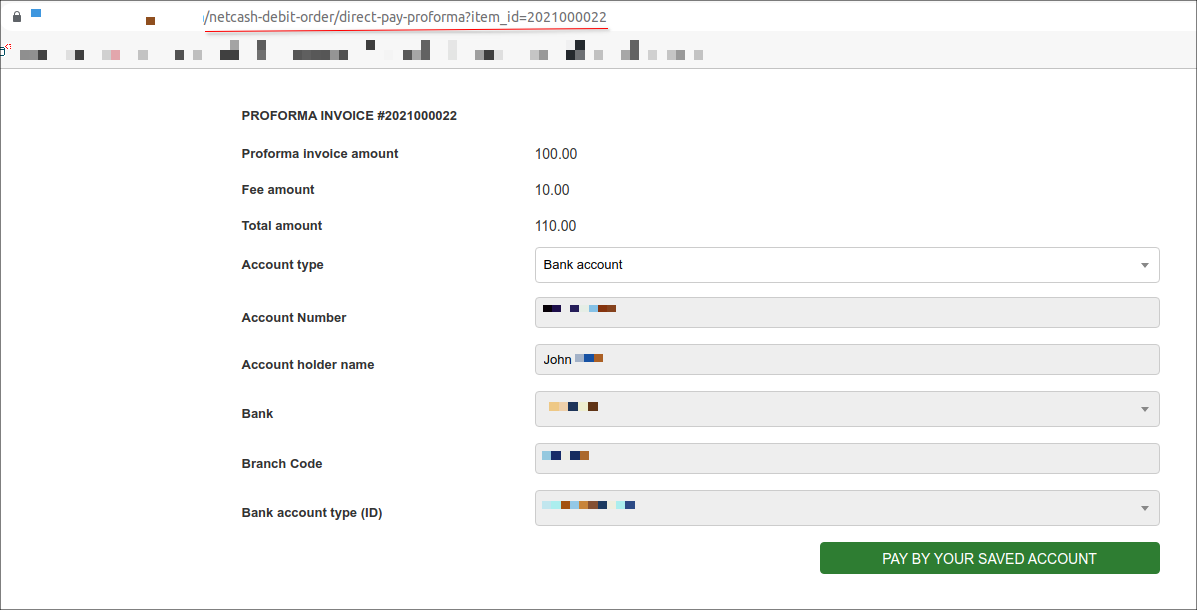
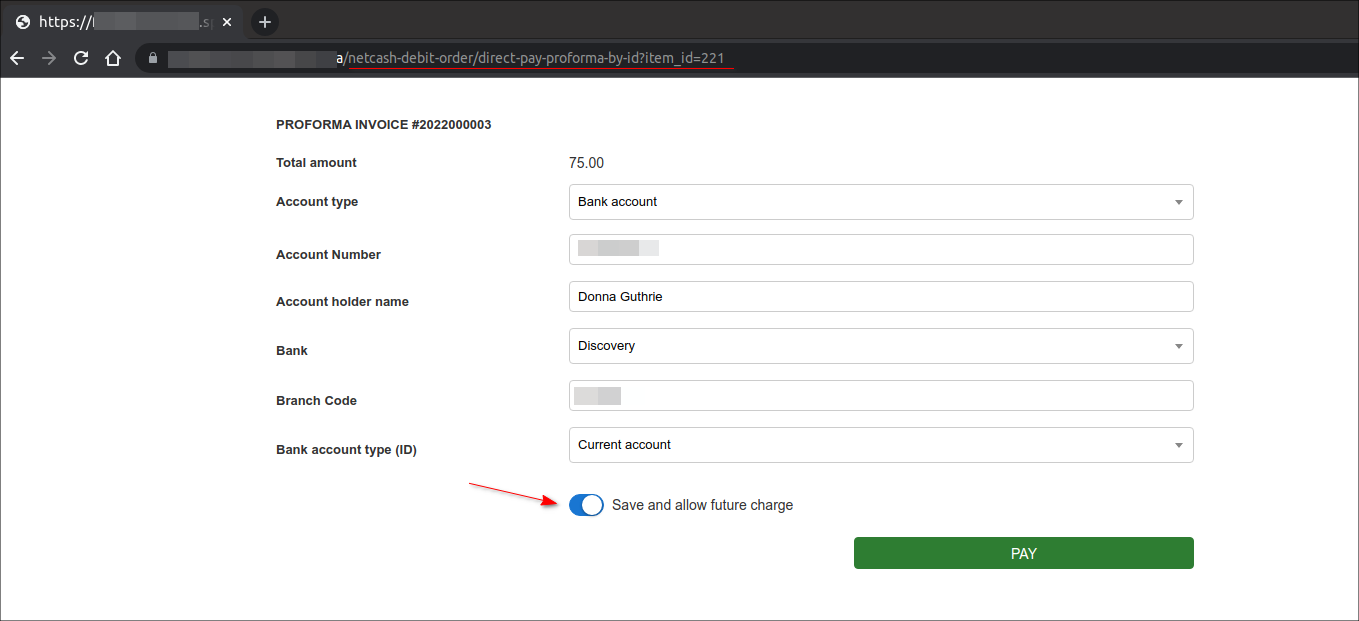
added clarifications about 'Save and allow future charge' option and 'customer id' in charge log

diff --git a/files/en/payment_systems/netcash_do/netcash_do.md b/files/en/payment_systems/netcash_do/netcash_do.md
@@ -123,31 +123,26 @@ When customers have Netcash payment accounts configured, the admin can charge th
 | 2  | Netcash can take up to two days after the action date to receive the payments as well as non-payments (bounced payments)  |
 | 3 | Splynx will check Netcash twice a day for any payments and allocate them to the correct invoice in which case the invoice will become “paid”. In the case we receive non-payments, the invoice status will return to unpaid  |
 
-This is the concept that will allow us to run debit orders.
+To perform the charge of `Unpaid` invoices, navigate to `Finance / Invoices` on the sidebar:
 
-Navigate to `Finance / Invoices`:
+**NOTE: The ability to charge balances have been removed from the features of the addon, however, it will be re-introduced in the next version of Splynx.**
+
 
 ![charge1.png](invoices_charge.png)
 
-Invoices can be charged by full invoice amount or by customer balance:
+Invoices can be charged by **full invoice amount** or by **customer balance**:
 
 ![charge1.png](charge.png)
 
 ![charge balances.png](charge_balances.png)
 
-If you charge the invoices using the “Netcash_balance” charge handler, the customer will be charged not according to an invoice amount, but with the amount outstanding on the customer’s account. <br>
-**For example:** *a customer has an invoice with an amount of 10, in the current month, but the balance of the account is -100 (meaning the customer didn't pay for 10 months) in this case, the customer will be charged with the amount of 100 and not 10.*
+If you charge the invoices using the `netcash_balances` charge handler, the **customer will be charged not according to an invoice amount, but with the amount outstanding on the customer’s account**.
 
+**Example:** *A customer has an invoice with an amount of 10, in the current month, but the balance of the account is -100 (meaning the customer didn't pay for 10 months) in this case, the customer will be charged with the amount of 100 and not 10.* That's why, **please be very attentive when using the `netcash_balances` charge handler**.
 
-**Please be very attentive when using the “Netcash_balances” charge handler**.
+Once charged, Splynx will create and send the debit batch file with the payment details to  [*https://netcash.co.za/*](https://netcash.co.za/). When the file is received in *Netcash*, you should select the correct batch type, either `two days` or `same day` as well as the action date. The last step is to click on authorize and complete the procedure, after which *Netcash* will process the file on the selected action date.
 
-**Note that the ability to charge balances have been removed from the features of the addon, however, it will be re-introduced in version 3.2 of Splynx**
-
-
-Once charged, Splynx will create and send the debit batch file with the payment details to  [*https://netcash.co.za/*](https://netcash.co.za/). When the file is received in Netcash, you should select the correct batch type, either “two days” or “same day” as well as the action date. The last step is to click on authorize and complete the procedure, after which Netcash will process the file on the selected action date.
-
-
-Splynx will send two requests per day (00:15 and 12:15) to Netcash via a cron job to retrieve the payments from Netcash. This will auto allocate the payments and update the invoice statuses to “paid”. You can also manually run the check payments for any historic date by using the **“*Netcash debit order check payments*”** in the finance module:
+Splynx will send two requests per day (00:15 and 12:15) to *Netcash* via a cron job to retrieve the payments from *Netcash*. This will auto allocate the payments and update the invoice statuses to `Paid`. You can also manually run the check payments for any historic date by using the **“*Netcash debit order check payments*”** in the finance module:
 
 ![check payments](check_payments.png)
 
@@ -157,7 +152,41 @@ The charge history can be viewed under the **"Charge history"** tab:
 
 File records with charged invoices can be downloaded or deleted in this section.
 
-The process of invoice charging can be automated. To achieve this, an admin should add an **"Auto charge filter"**:
+**NOTE:** If a customer doesn't have the saved payment credentials for Netcash service in Splynx, the customer id will be recorded in the charge log to easily identify their profile.
+
+<details style="font-size: 15px; margin-bottom: 5px;">
+<summary><b>The invoice charge log example:</b></summary>
+<div markdown="1">
+
+```
+ERRORS:
+
+Error: Customer payment account is empty! - Customer id : 7322
+
+OUTPUT:
+
+Start Netcash Debit Order charging..
+type: "invoice"
+amount items: 1
+
+Fri, 14 Jan 2022 15:16:52 +0200
+
+Work with invoice with id 2155
+
+Loaded invoice number "202201000151"
+Customer id: 7322
+Invoice amount: 100
+No fee
+Total amount: 100
+Customer payment account is empty! - Customer id : 7322
+
+```
+</div>
+</details>
+
+<br>
+
+The process of invoice **charging can be automated**. To achieve this, an admin should add an **"Auto charge filter"**:
 
 ![auto charge](add_auto_charge.png)
 
@@ -205,7 +234,9 @@ The customer can also view, update, or remove Netcash account details here:
 
 ### Direct payments
 
-Using the payments links is the simplest way to accept payments made with credit card or bank account. This feature is available in the Netcash Debit Order addon to pay *Invoices* and *Proforma Invoices*. This provides convenience and simplicity for your customer, so the amount of on-time payments will increase. For example, you can add a payment link to the e-mail with the (proforma) invoice, as a result, the customer can make payment quickly by clicking onto this link instead of logging in to their *Portal* page. In case the customer has saved the payment credentials on the *Portal*, later the customer does not need to add any further details when using the direct payment link.
+Using the direct payments links is the simplest way to accept payments made with credit card or bank account. This feature is available in the Netcash Debit Order add-on to pay *Invoices* and *Proforma Invoices*. This provides convenience and simplicity for your customer, so the amount of on-time payments will increase. For example, you can add a payment link to the e-mail with the (proforma) invoice, as a result, the customer can make payment quickly by clicking onto this link instead of logging in to their *Portal* page.
+In case the customer has saved the payment credentials on the *Portal*, later they do not need to add any further details when using the direct payment link.
+Otherwise (the customer payment accounts are not saved), the option `Save and allow future charge` can be used on the direct payment form page to save the customer credit card or bank account credentials on their Portal.
 
 To create a direct payment link, please use the patterns below:
 
